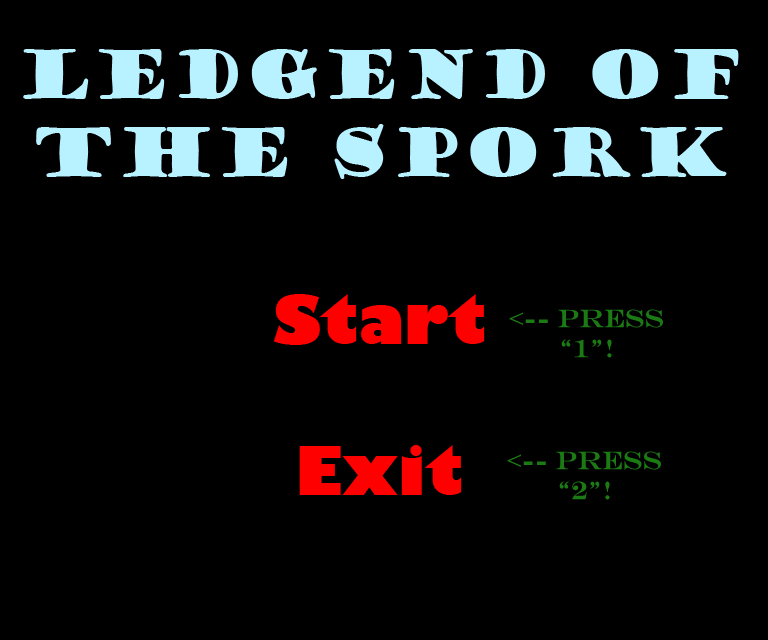
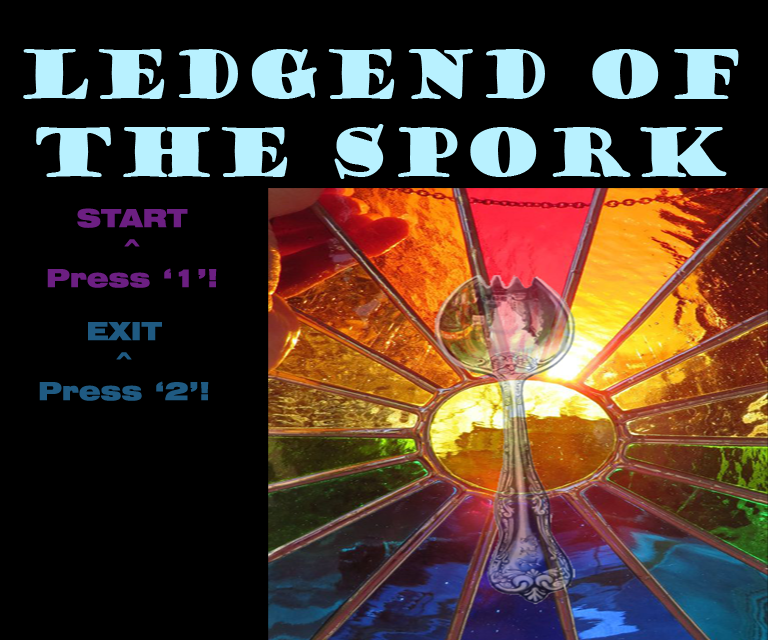
LOTS OF STUFF | Title improved, Player, Bug, and lvl loader improved + controls screen

diff --git a/LotS.py b/LotS.py
@@ -19,11 +19,11 @@ pygame.init()
 clock = pygame.time.Clock()
 
 width = 1000
-height = 850 # 700 + 150 for HUD stuff. 
+height = 850 # 700 + 150 for HUD stuff.
 size = width, height
 screen = pygame.display.set_mode(size)
 bgColor = 0,0,0
-screen = pygame.display.set_mode(size)
+
 
 
 all = pygame.sprite.OrderedUpdates()
@@ -63,7 +63,26 @@ bug = Bug()
 
 while True:
     menu = True
-    Title("Res/Background/Titlescreen.png", size)
+    controls = True
+    Title("Res/Background/Controls.png", size)
+    while controls:
+        for event in pygame.event.get():
+            if event.type == pygame.QUIT: sys.exit()
+            if event.type == pygame.KEYDOWN:
+                if event.key == pygame.K_RETURN:
+                    controls = False
+                    menu = True
+                    Title("Res/Background/Titlescreen.png", size)
+
+        all.update(size)
+
+        bgColor = r,g,b = 0,0,0
+        screen.fill(bgColor)
+        dirty = all.draw(screen)
+        pygame.display.update(dirty)
+        pygame.display.flip()
+        clock.tick(60)
+
     while menu:
         for event in pygame.event.get():
             if event.type == pygame.QUIT: sys.exit()
@@ -72,20 +91,19 @@ while True:
                     menu = False
                 if event.key == pygame.K_2:
                     sys.exit()
-        
+
         all.update(size)
-    
+
         bgColor = r,g,b = 0,0,0
         screen.fill(bgColor)
         dirty = all.draw(screen)
         pygame.display.update(dirty)
         pygame.display.flip()
         clock.tick(60)
-    
+
     for s in all.sprites():
         s.kill()
-    level = Level("World1") 
-    #player = players.sprites[0]
+    level = Level("World1")
     while player.living:
         for event in pygame.event.get():
             if event.type == pygame.QUIT: sys.exit()
@@ -98,7 +116,8 @@ while True:
                     player.go("right")
                 if event.key == pygame.K_LEFT:
                     player.go("left")
-                
+                print "player moving!"
+
             if event.type == pygame.KEYUP:
                 if event.key == pygame.K_UP:
                     player.go("stop up")
@@ -108,14 +127,9 @@ while True:
                     player.go("stop right")
                 if event.key == pygame.K_LEFT:
                     player.go("stop left")
-                    
-        all.update(size)
-        
-        playerHitsImpassable = pygame.sprite.spritecollide(player, impassables, True)
-        playerHitsBackgroundItems = pygame.sprite.spritecollide(player, backgrounditems, False)
-        bugsHitsImpassable = pygame.sprite.groupcollide(bugs, impassables, False, False)
 
-        
+        all.update(size)
+
         bgColor = r,g,b = 0,0,0
         screen.fill(bgColor)
         dirty = all.draw(screen)

diff --git a/LotSBeta.py b/LotSBeta.py
@@ -19,11 +19,11 @@ pygame.init()
 clock = pygame.time.Clock()
 
 width = 1000
-height = 850 # 700 + 150 for HUD stuff. 
+height = 850 # 700 + 150 for HUD stuff.
 size = width, height
 screen = pygame.display.set_mode(size)
 bgColor = 0,0,0
-screen = pygame.display.set_mode(size)
+
 
 
 all = pygame.sprite.OrderedUpdates()
@@ -63,7 +63,26 @@ bug = Bug()
 
 while True:
     menu = True
-    Title("Res/Background/Titlescreen.png", size)
+    controls = True
+    Title("Res/Background/Controls.png", size)
+    while controls:
+        for event in pygame.event.get():
+            if event.type == pygame.QUIT: sys.exit()
+            if event.type == pygame.KEYDOWN:
+                if event.key == pygame.K_RETURN:
+                    controls = False
+                    menu = True
+                    Title("Res/Background/Titlescreen.png", size)
+
+        all.update(size)
+
+        bgColor = r,g,b = 0,0,0
+        screen.fill(bgColor)
+        dirty = all.draw(screen)
+        pygame.display.update(dirty)
+        pygame.display.flip()
+        clock.tick(60)
+
     while menu:
         for event in pygame.event.get():
             if event.type == pygame.QUIT: sys.exit()
@@ -72,20 +91,19 @@ while True:
                     menu = False
                 if event.key == pygame.K_2:
                     sys.exit()
-        
+
         all.update(size)
-    
+
         bgColor = r,g,b = 0,0,0
         screen.fill(bgColor)
         dirty = all.draw(screen)
         pygame.display.update(dirty)
         pygame.display.flip()
         clock.tick(60)
-    
+
     for s in all.sprites():
         s.kill()
-    level = Level("World1") 
-    #player = players.sprites[0]
+    level = Level("World1")
     while player.living:
         for event in pygame.event.get():
             if event.type == pygame.QUIT: sys.exit()
@@ -98,7 +116,8 @@ while True:
                     player.go("right")
                 if event.key == pygame.K_LEFT:
                     player.go("left")
-                
+                print "player moving!"
+
             if event.type == pygame.KEYUP:
                 if event.key == pygame.K_UP:
                     player.go("stop up")
@@ -108,14 +127,9 @@ while True:
                     player.go("stop right")
                 if event.key == pygame.K_LEFT:
                     player.go("stop left")
-                    
-        all.update(size)
-        
-        playerHitsImpassable = pygame.sprite.spritecollide(player, impassables, True)
-        playerHitsBackgroundItems = pygame.sprite.spritecollide(player, backgrounditems, False)
-        bugsHitsImpassable = pygame.sprite.groupcollide(bugs, impassables, False, False)
 
-        
+        all.update(size)
+
         bgColor = r,g,b = 0,0,0
         screen.fill(bgColor)
         dirty = all.draw(screen)

diff --git a/Player.py b/Player.py
@@ -18,14 +18,16 @@ class Player(pygame.sprite.Sprite):
         self.imageState = "right"
         self.image = self.imageRight
         self.rect = self.image.get_rect()
+
         
-        self.speedx = speed
-        self.speedy = speed
+        self.speedx = 0
+        self.speedy = 0
+        self.maxSpeed = maxSpeed
         self.speed = [self.speedx, self.speedy]
         self.didBounceX = False
         self.didBounceY = False
         self.pos = [self.rect.left, self.rect.top]
-        self.maxSpeed = maxSpeed
+
         self.lives = 5
         self.hit = False
         self.health = 3 
@@ -36,6 +38,15 @@ class Player(pygame.sprite.Sprite):
         #self.animationTimer = 0
         #self.animationTimerMax = .2 * 60 #seconds * 60 fps
         #self.blinkFrame = 0
+        
+        self.animate()
+        self.direction()
+
+    def update(self, screenSize):
+        self.move()
+        self.animate()
+        self.screenCollide(screenSize)
+
     def animate(self):
         if self.prevState != self.state:
             if self.state == "right":
@@ -50,33 +61,36 @@ class Player(pygame.sprite.Sprite):
             elif self.state == "down":
                 self.image == self.imageDown
                 #self.image = self.imagesDown
+
     def move(self):
         self.didBounceX = False
         self.didBounceY = False
         self.speed = [self.speedx, self.speedy]
         self.rect = self.rect.move(self.speed)
         self.animate()
+        
     def direction(direction):
         return direction
+        
     def go(self, direction):
         if direction == "right":
-            self.speedx = self.speedx
+            self.speedx = self.maxSpeed
             self.speedy = 0
             self.state == "right"
             self.move()
         if direction == "left":
-            self.speedx == -self.speedx
+            self.speedx == -self.maxSpeed
             self.speedy = 0
             self.state == "left"
             self.move()
         if direction == "up":
             self.speedx = 0
-            self.speedy = self.speedy
+            self.speedy = self.maxSpeed
             self.state == "up"
             self.move()
         if direction == "down":
             self.speedx = 0
-            self.speedy = -self.speedy
+            self.speedy = -self.maxSpeed
             self.state == "down"
             self.move()
             

diff --git a/Bug.py b/Bug.py
@@ -106,14 +106,6 @@ class Bug(pygame.sprite.Sprite):
             self.speedx = 0
             self.decideDirection()
 
-    def impassableCollide(self, other):
-        if not self.didBounceX: 
-            self.speedx = -self.speedx
-            self.didBounceX = True
-        if not self.didBounceY:
-            self.speedy = -self.speedy
-            self.didBounceY = True
-
     def dist(self, pt):
         x = pt[0] - self.rect.right
         y = pt[1] - self.rect.bottom

diff --git a/LevelLoader.py b/LevelLoader.py
@@ -87,7 +87,7 @@ class Level():
             for x,c in enumerate(line):
                 
                 
-                if c == "p":       #Player
+                if c in "p":       #Player
                     Player(64, 1, 
                         [x*self.tileSize + self.tileSize/.2,
                          y*self.tileSize + self.tileSize/.2])
